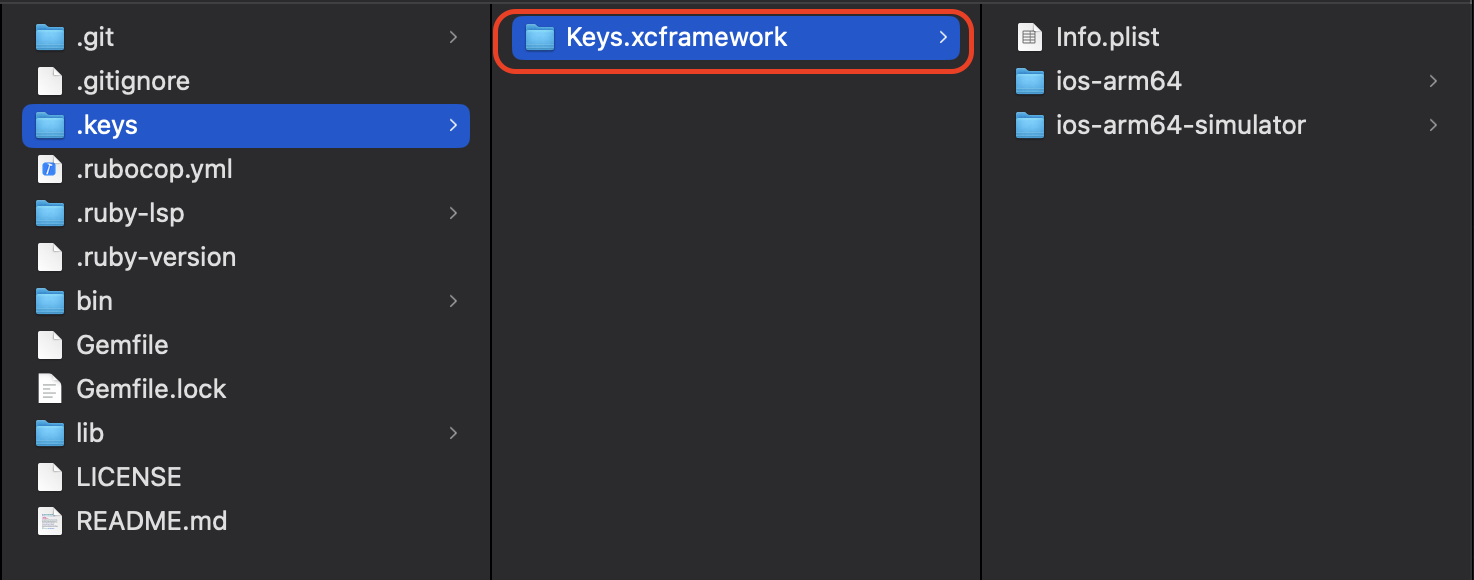
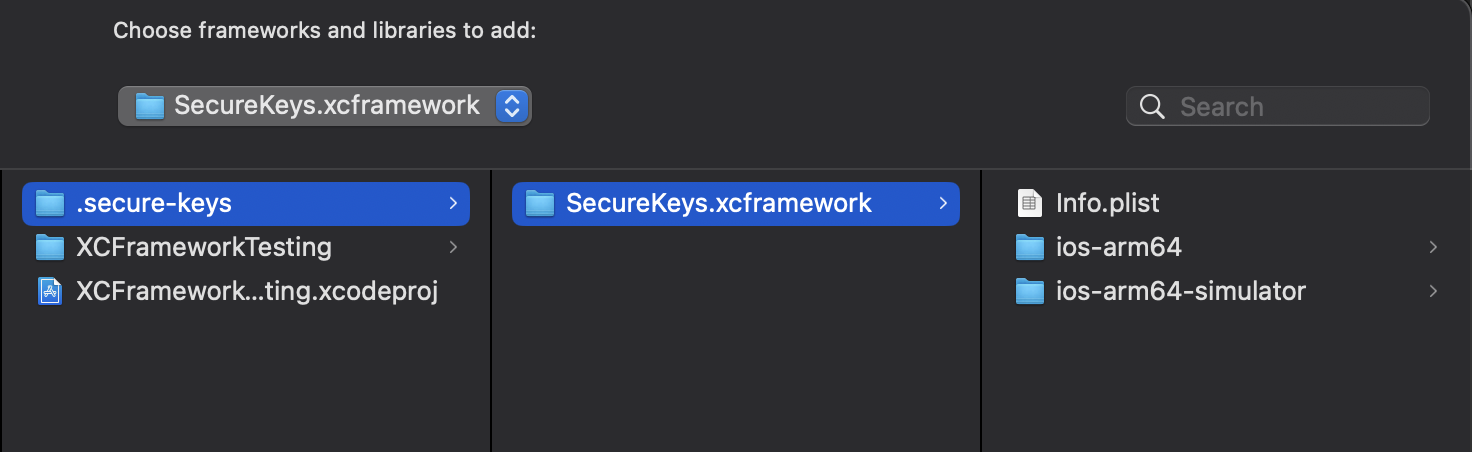
Rename iOS key target from `Keys` to `SecureKeys` (#11)
### Description

This PR renamed the `Keys` target / project to `SecureKeys`.

### Medias (if needed)

- None.

### Testplan

- [x] I tested this change on my local environment.
- [ ] I ran the unit tests.

**Detailed steps to test the changes (if applicable):**

### Checklist

- [ ] I added tests for this change.
- [x] I checked the code style and run the linter.
- [x] I added necessary documentation (if applicable).

diff --git a/lib/keys.rb b/lib/keys.rb
@@ -9,7 +9,7 @@ require_relative './core/utils/swift/swift'
 require_relative './core/utils/swift/xcframework'
 require_relative './core/utils/openssl/cipher'
 
-module Keys
+module SecureKeys
   class Generator
     private
 
@@ -21,23 +21,23 @@ module Keys
       # If the secure keys identifier is not set, set it to 'secure-keys'
       ENV['SECURE_KEYS_IDENTIFIER'] = 'secure-keys' unless ENV.key?('SECURE_KEYS_IDENTIFIER')
 
-      puts "🔔 You're using a custom delimiter '#{Keys::Globals.key_delimiter}'" unless Keys::Globals.key_delimiter.eql?(Keys::Globals.default_key_delimiter)
-      puts "🔔 You're using a custom key access identifier '#{Keys::Globals.key_access_identifier}'" unless Keys::Globals.key_access_identifier.eql?(Keys::Globals.default_key_access_identifier)
+      puts "🔔 You're using a custom delimiter '#{SecureKeys::Globals.key_delimiter}'" unless SecureKeys::Globals.key_delimiter.eql?(SecureKeys::Globals.default_key_delimiter)
+      puts "🔔 You're using a custom key access identifier '#{SecureKeys::Globals.key_access_identifier}'" unless SecureKeys::Globals.key_access_identifier.eql?(SecureKeys::Globals.default_key_access_identifier)
 
       # Configure cipher
-      self.cipher = Keys::OpenSSL::Cipher.new
+      self.cipher = SecureKeys::OpenSSL::Cipher.new
 
       # Configure the secret source based on the environment
-      if Keys::Globals.ci?
-        self.secrets_source = Keys::Core::Environment::CI.new
+      if SecureKeys::Globals.ci?
+        self.secrets_source = SecureKeys::Core::Environment::CI.new
       else
-        self.secrets_source = Keys::Core::Environment::Keychain.new
+        self.secrets_source = SecureKeys::Core::Environment::Keychain.new
       end
 
       # Define the keys that we want to map
-      self.secret_keys = secrets_source.fetch(key: Keys::Globals.key_access_identifier)
+      self.secret_keys = secrets_source.fetch(key: SecureKeys::Globals.key_access_identifier)
                                        .to_s
-                                       .split(Keys::Globals.key_delimiter)
+                                       .split(SecureKeys::Globals.key_delimiter)
                                        .map(&:strip)
 
       # Add the keys that we want to map
@@ -52,14 +52,14 @@ module Keys
     def setup
       pre_actions
 
-      package = Keys::Swift::Package.new
+      package = SecureKeys::Swift::Package.new
       package.generate
 
-      writer = Keys::Swift::Writer.new(mapped_keys: mapped_keys,
-                                       secure_key_bytes: cipher.secure_key_bytes)
+      writer = SecureKeys::Swift::Writer.new(mapped_keys: mapped_keys,
+                                             secure_key_bytes: cipher.secure_key_bytes)
       writer.write
 
-      xcframework = Keys::Swift::XCFramework.new
+      xcframework = SecureKeys::Swift::XCFramework.new
       xcframework.generate
 
       post_actions
@@ -69,15 +69,15 @@ module Keys
 
     def pre_actions
       # Remove the keys directory
-      system("rm -rf #{Keys::Swift::KEYS_DIRECTORY}")
+      system("rm -rf #{SecureKeys::Swift::KEYS_DIRECTORY}")
     end
 
     def post_actions
       # Remove the keys directory
-      system("rm -rf #{Keys::Swift::SWIFT_PACKAGE_DIRECTORY}")
+      system("rm -rf #{SecureKeys::Swift::SWIFT_PACKAGE_DIRECTORY}")
 
       # Remove the build directory
-      system("rm -rf #{Keys::Swift::KEYS_DIRECTORY}/#{Keys::Swift::BUILD_DIRECTORY}")
+      system("rm -rf #{SecureKeys::Swift::KEYS_DIRECTORY}/#{SecureKeys::Swift::BUILD_DIRECTORY}")
     end
   end
 end

diff --git a/lib/core/utils/swift/writer.rb b/lib/core/utils/swift/writer.rb
@@ -3,7 +3,7 @@
 
 require_relative './swift'
 
-module Keys
+module SecureKeys
   module Swift
     class Writer
       private
@@ -70,7 +70,7 @@ module Keys
         ///
         /// - Returns: The decrypted value of the key
         @available(iOS 13.0, *)
-        public func key(for key: Keys) -> String { key.decryptedValue }
+        public func key(for key: SecureKey) -> String { key.decryptedValue }
 
         /// Fetch the decrypted value of the key
         ///
@@ -79,13 +79,13 @@ module Keys
         ///
         /// - Returns: The decrypted value of the key
         @available(iOS 13.0, *)
-        public func key(_ key: Keys) -> String { key.decryptedValue }
+        public func key(_ key: SecureKey) -> String { key.decryptedValue }
 
-        // MARK: - Keys enum
+        // MARK: - SecureKey enum
 
         /// Keys is a class that contains all the keys that are used in the application.
         @available(iOS 13.0, *)
-        public enum Keys: String {
+        public enum SecureKey: String {
 
             // MARK: - Cases
 
@@ -111,15 +111,15 @@ module Keys
             }
         }
 
-        // MARK: - String extension for keys
+        // MARK: - String extension for secure keys
 
         @available(iOS 13.0, *)
         extension String {
 
             // MARK: - Methods
 
-            /// Fetch the key from the keys enum
-            public var secretKey: Keys { Keys(rawValue: self) ?? .unknown }
+            /// Fetch the key from the secure keys enum
+            public var secretKey: SecureKey { SecureKey(rawValue: self) ?? .unknown }
 
             /// Fetch the decrypted value of the key
             ///
@@ -127,7 +127,7 @@ module Keys
             ///    - key: The key to fetch the decrypted value for
             ///
             /// - Returns: The decrypted value of the key
-            public static func key(for key: Keys) -> String { key.decryptedValue }
+            public static func key(for key: SecureKey) -> String { key.decryptedValue }
         }
 
         // swiftlint:enable all

diff --git a/lib/core/utils/swift/xcframework.rb b/lib/core/utils/swift/xcframework.rb
@@ -3,7 +3,7 @@
 require_relative './swift'
 require_relative '../../globals/globals'
 
-module Keys
+module SecureKeys
   module Swift
     class XCFramework
       # Generate the XCFramework from the Swift package
@@ -12,7 +12,7 @@ module Keys
         # Currently this is failling with the following error:
         # "library with the identifier 'ios-arm64' already exists."
         %w[Release].each do |configuration|
-          Keys::Globals.ios_platforms.each do |platform|
+          SecureKeys::Globals.ios_platforms.each do |platform|
             generate_key_modules(configuration:, platform:)
             generate_key_libraries(configuration:, platform: platform[:path])
           end
@@ -44,8 +44,8 @@ module Keys
       def generate_key_libraries(configuration:, platform:)
         command = <<~BASH
           cd #{KEYS_DIRECTORY} &&
-          ar -crs #{BUILD_DIRECTORY}/#{configuration}-#{platform}/libKeys.a \
-            #{BUILD_DIRECTORY}/#{configuration}-#{platform}/Keys.o
+          ar -crs #{BUILD_DIRECTORY}/#{configuration}-#{platform}/lib#{SWIFT_PACKAGE_NAME}.a \
+            #{BUILD_DIRECTORY}/#{configuration}-#{platform}/#{SWIFT_PACKAGE_NAME}.o
         BASH
 
         system(command)
@@ -71,8 +71,8 @@ module Keys
         # Currently this is failling with the following error:
         # "library with the identifier 'ios-arm64' already exists."
         %w[Release].map do |configuration|
-          Keys::Globals.ios_platforms.map do |platform|
-            "-library #{BUILD_DIRECTORY}/#{configuration}-#{platform[:path]}/libKeys.a"
+          SecureKeys::Globals.ios_platforms.map do |platform|
+            "-library #{BUILD_DIRECTORY}/#{configuration}-#{platform[:path]}/lib#{SWIFT_PACKAGE_NAME}.a"
           end.join(' ')
         end.join(' ')
       end

diff --git a/lib/core/utils/swift/swift.rb b/lib/core/utils/swift/swift.rb
@@ -1,17 +1,17 @@
 #!/usr/bin/env ruby
 
-module Keys
+module SecureKeys
   module Swift
     # Constants
 
     # The name of the directory that contains the keys
-    KEYS_DIRECTORY = '.keys'.freeze
+    KEYS_DIRECTORY = '.secure-keys'.freeze
 
     # The name of the directory that contains the generated build
     BUILD_DIRECTORY = 'Build'.freeze
 
     # The name of the Swift Package
-    SWIFT_PACKAGE_NAME = 'Keys'.freeze
+    SWIFT_PACKAGE_NAME = 'SecureKeys'.freeze
 
     # The name of the directory that contains the generated Swift package
     SWIFT_PACKAGE_DIRECTORY = "#{KEYS_DIRECTORY}/Package".freeze

diff --git a/lib/core/environment/keychain.rb b/lib/core/environment/keychain.rb
@@ -2,7 +2,7 @@
 
 require 'osx_keychain'
 
-module Keys
+module SecureKeys
   module Core
     module Environment
       class Keychain
@@ -20,7 +20,7 @@ module Keys
         # @param key [String] the key of the keychain access item to fetch
         # @return [String] the value of the keychain access item
         def fetch(key:)
-          keychain[key, Keys::Globals.key_access_identifier]
+          keychain[key, SecureKeys::Globals.key_access_identifier]
         rescue StandardError
           puts "❌ Error fetching the key: #{key} from Keychain."
         end

diff --git a/Formula/secure_keys.rb b/Formula/secure_keys.rb
@@ -1,9 +1,9 @@
 require File.expand_path('../lib/version', __dir__)
 
 class SecureKeys < Formula
-  desc Keys::DESCRIPTION
-  homepage Keys::HOMEPAGE_URI
-  url "#{Keys::HOMEPAGE_URI}/archive/refs/tags/v#{Keys::VERSION}.tar.gz"
+  desc SecureKeys::DESCRIPTION
+  homepage SecureKeys::HOMEPAGE_URI
+  url "#{SecureKeys::HOMEPAGE_URI}/archive/refs/tags/v#{SecureKeys::VERSION}.tar.gz"
[1 lines of base64/hex data omitted]
   license 'MIT'
 

diff --git a/lib/version.rb b/lib/version.rb
@@ -1,7 +1,7 @@
 #!/usr/bin/env ruby
 
-module Keys
-  VERSION = '1.0.4'.freeze
+module SecureKeys
+  VERSION = '1.1.0'.freeze
   SUMMARY = 'Secure Keys is a simple tool for managing your secret keys'.freeze
   DESCRIPTION = 'Secure Keys is a simple tool to manage your secret keys in your iOS project'.freeze
   HOMEPAGE_URI = 'https://github.com/DerianCordobaPerez/secure-keys-generator'.freeze

diff --git a/lib/core/utils/swift/package.rb b/lib/core/utils/swift/package.rb
@@ -2,7 +2,7 @@
 
 require_relative './swift'
 
-module Keys
+module SecureKeys
   module Swift
     class Package
       # Generate the Swift Package using the configured path

diff --git a/lib/core/utils/openssl/cipher.rb b/lib/core/utils/openssl/cipher.rb
@@ -4,7 +4,7 @@ require 'openssl'
 require 'base64'
 require 'securerandom'
 
-module Keys
+module SecureKeys
   module OpenSSL
     class Cipher
       private

diff --git a/lib/core/environment/ci.rb b/lib/core/environment/ci.rb
@@ -1,6 +1,6 @@
 #!/usr/bin/env ruby
 
-module Keys
+module SecureKeys
   module Core
     module Environment
       class CI

diff --git a/lib/core/globals/globals.rb b/lib/core/globals/globals.rb
@@ -1,6 +1,6 @@
 #!/usr/bin/env ruby
 
-module Keys
+module SecureKeys
   module Globals
     module_function
 

diff --git a/docs/index.md b/docs/index.md
@@ -11,11 +11,11 @@ Before you begin, ensure that your development environment meets the following p
 
 ## Installation
 
-There are multiple ways to install the `Keys` utility:
+There are multiple ways to install the `SecureKeys` utility:
 
 ### Option 1: Install via Homebrew
 
-You can install the `Keys` utility using [Homebrew](https://brew.sh/) with the following commands:
+You can install the `SecureKeys` utility using [Homebrew](https://brew.sh/) with the following commands:
 
 ```bash
 brew tap DerianCordobaPerez/tap https://github.com/DerianCordobaPerez/secure-keys-generator
@@ -106,9 +106,9 @@ export SECURE_KEYS_DELIMITER="|"
 export SECURE_KEYS_IDENTIFIER="github-token|api_key|firebaseToken"
 ```
 
-### Step 2: Generate the Keys.xcframework
+### Step 2: Generate the SecureKeys.xcframework
 
-After configuring your keys, generate the `Keys.xcframework` by running the following command in your iOS project root directory:
+After configuring your keys, generate the `SecureKeys.xcframework` by running the following command in your iOS project root directory:
 
 ```bash
 secure-keys
@@ -120,7 +120,7 @@ Using Bundler:
 bundle exec secure-keys
 ```
 
-### Step 3: Integrate Keys.xcframework into Your iOS Project
+### Step 3: Integrate SecureKeys.xcframework into Your iOS Project
 
 1. From the iOS project, click on the project target, select the `General` tab, and scroll down to the `Frameworks, Libraries, and Embedded Content` section.
 
@@ -130,23 +130,23 @@ bundle exec secure-keys
 
 ![Add Files](https://deriancordobaperez.github.io/secure-keys-generator/assets/add-xcframework-to-ios-project/second-step.png)
 
-3. Navigate to the `keys` directory and select the `Keys.xcframework` folder.
+3. Navigate to the `Securekeys` directory and select the `SecureKeys.xcframework` folder.
 
-![Select Keys.xcframework](https://deriancordobaperez.github.io/secure-keys-generator/assets/add-xcframework-to-ios-project/third-step.png)
+![Select SecureKeys.xcframework](https://deriancordobaperez.github.io/secure-keys-generator/assets/add-xcframework-to-ios-project/third-step.png)
 
-> Now the `Keys.xcframework` is added to the iOS project.
+> Now the `SecureKeys.xcframework` is added to the iOS project.
 
-![Select Keys.xcframework](https://deriancordobaperez.github.io/secure-keys-generator/assets/add-xcframework-to-ios-project/third-step-result.png)
+![Select SecureKeys.xcframework](https://deriancordobaperez.github.io/secure-keys-generator/assets/add-xcframework-to-ios-project/third-step-result.png)
 
 4. Click on the `Build settings` tab and search for the `Search Paths` section.
 
 ![Search Paths](https://deriancordobaperez.github.io/secure-keys-generator/assets/add-xcframework-to-ios-project/fourth-step.png)
 
-> Add the path to the `Keys.xcframework` in the `Framework Search Paths` section.
+> Add the path to the `SecureKeys.xcframework` in the `Framework Search Paths` section.
 
 ```bash
 $(inherited)
-$(SRCROOT)/.keys
+$(SRCROOT)/.secure-keys
 ```
 
 ### Step 4: Use the Keys in Your Code
@@ -154,10 +154,10 @@ $(SRCROOT)/.keys
 In your iOS code, you can now use the Keys framework to securely retrieve your keys:
 
 ```swift
-import Keys
+import SecureKeys
 
 // Using the key directly
-let apiKey = Keys.apiKey.decryptedValue
+let apiKey = SecureKey.apiKey.decryptedValue
 
 // Accessing a key by enum case
 let someKey: String = key(for: .someKey)
@@ -166,7 +166,7 @@ let someKey: String = key(for: .someKey)
 let someKey: String = key(.someKey)
 
 // Using the raw value to access the key
-let apiKey: Keys = "apiKey".secretKey
+let apiKey: SecureKey = "apiKey".secretKey
 
 // Accessing decrypted value from the raw key
 let apiKey: String = "apiKey".secretKey.decryptedValue
@@ -179,14 +179,14 @@ let apiKey: String = .key(for: .apiKey)
 
 When the script is executed, it follows these steps:
 
-1. A `.keys` directory is created.
-2. A temporary Swift Package is generated within the `.keys` directory.
+1. A `.secure-keys` directory is created.
+2. A temporary Swift Package is generated within the `.secure-keys` directory.
 3. The Keys source code is copied into the temporary Swift Package.
-4. The `Keys.xcframework` is generated using the temporary Swift Package.
+4. The `SecureKeys.xcframework` is generated using the temporary Swift Package.
 5. The temporary Swift Package is removed.
 
 ```swift
-public enum Keys {
+public enum SecureKey {
 
     // MARK: - Cases
 
